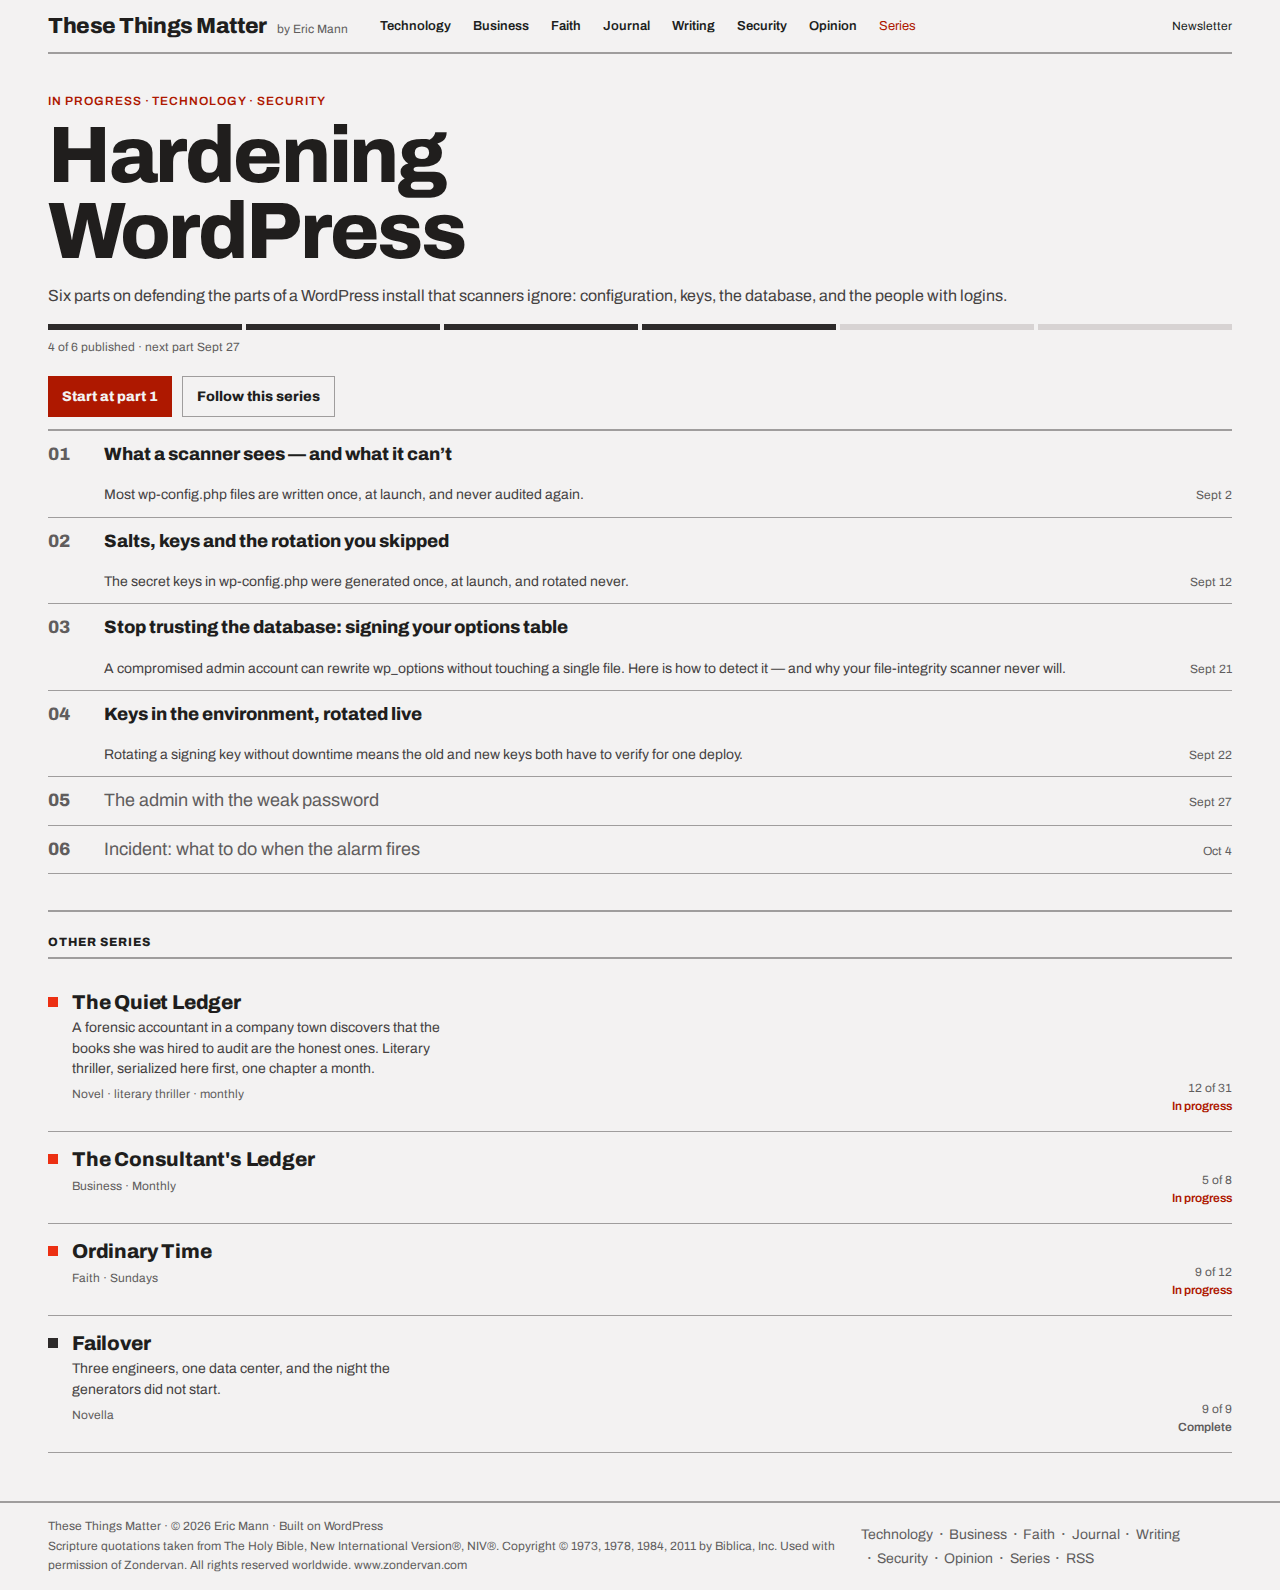
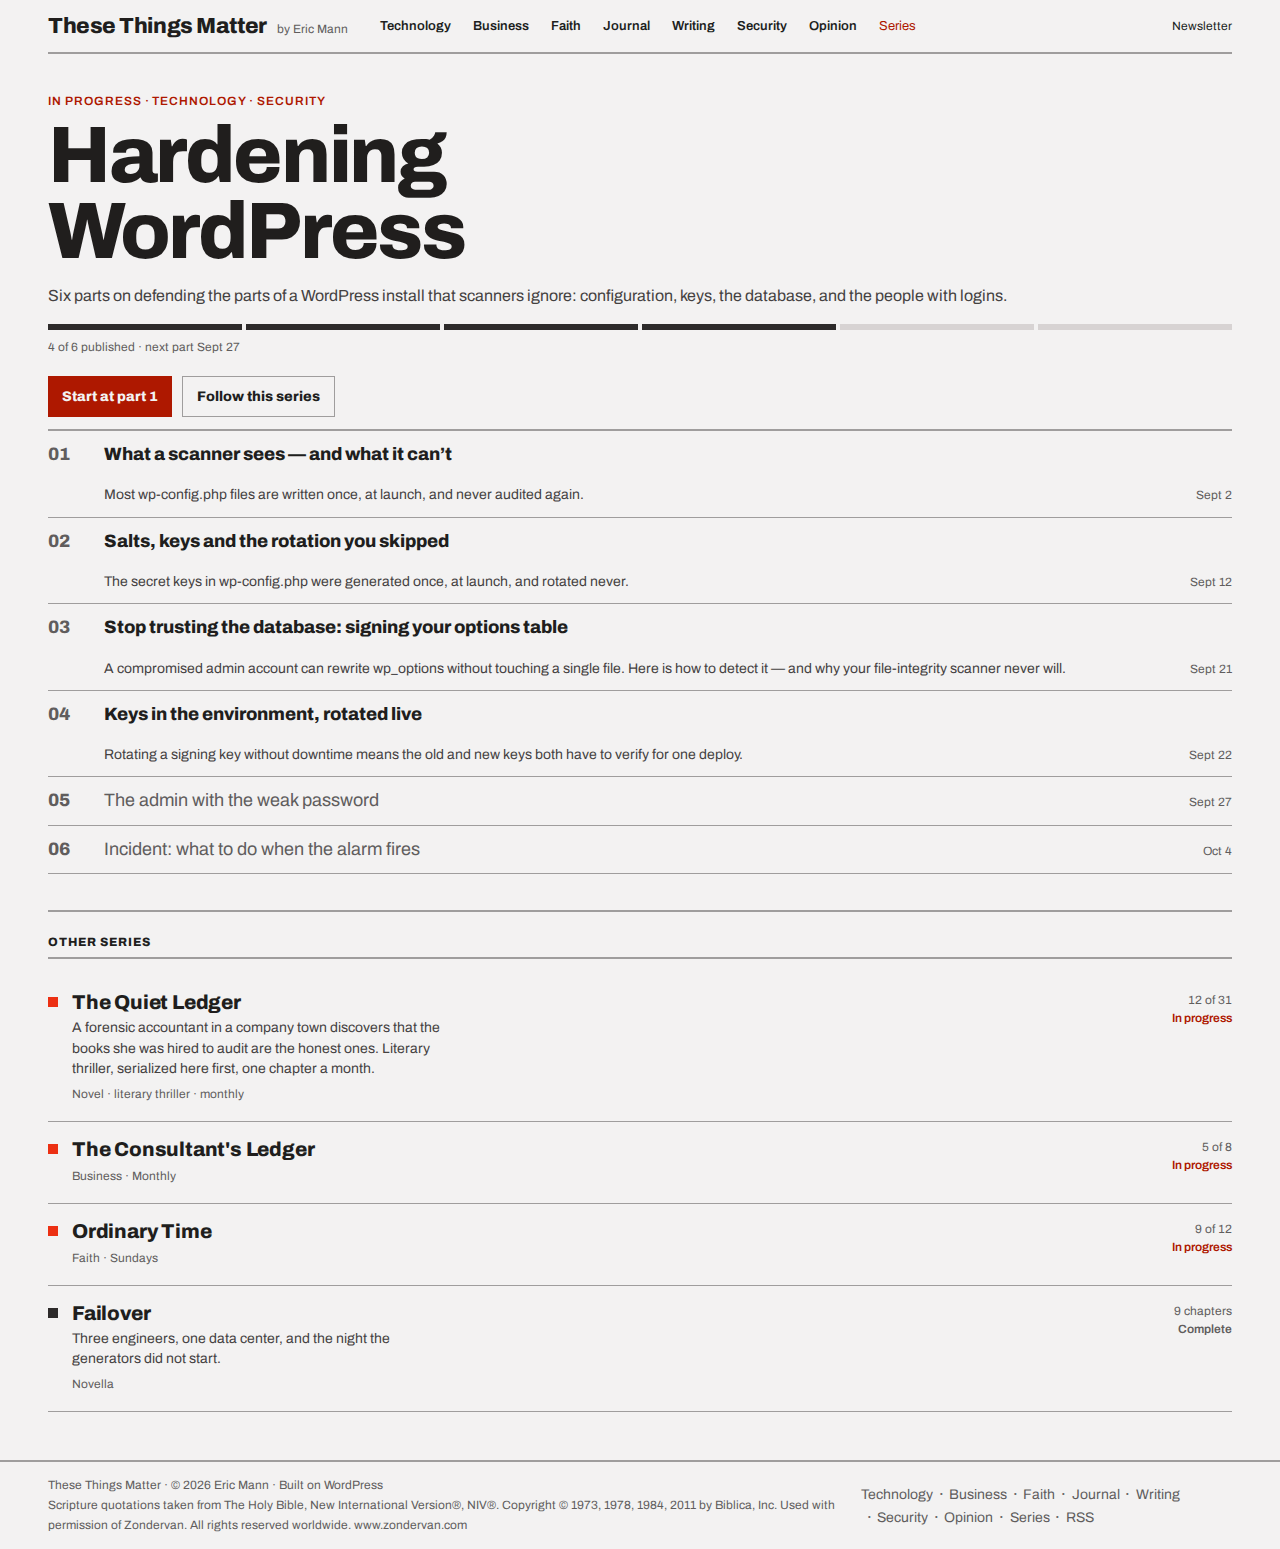
R4-03: Test the empty-chapters branch; round-3 cleanups; regenerate screenshots
Goal: Cover R3-02's return '' branch with a test, clear the round-3
readability leftovers (REVIEW round 3 findings 1 and 5), and regenerate the
phase-3 PNGs after R4-01/R4-02's fixes.

Tests: SeriesTocTest::test_chapters_variant_with_no_published_parts_renders_nothing
(confirmed it fails with the return '' guard temporarily removed, passes
restored). series-toc/render.php's chapters loop no longer checks
$ttm_is_published (chapters rows are always publish after R3-02's filter);
the series/article-TOC variant's separate F24 branch is untouched.
Seeder.php: dropped ALLOWED_FORMS, validates against Meta\PostMeta::FORMS
instead; normalize_form() stays pure and its unit test (composer test:unit,
171 tests) stays green unchanged. Fixed the docblock's stale "SPEC §5.2"
citation. SeederTest.php: removed the stale F2/R1-02 docblock and renamed
test_seeded_writing_essays_derive_as_story_but_stay_older_than_the_last_cron_job
to test_seeded_writing_essays_are_locked_articles_and_last_cron_job_stays_first
(assertions unchanged).

Corrected two HANDOFF.md errors: Field Guide's days_ago is 410, not 260; the
R3-03 Measurements note had misattributed the "flagged as 260" note to
story-what-the-river-audits when it was about story-a-field-guide-to-empty-
offices. Added a Round 4 section.

Reseeded and ran npm run screenshots; only writing.png, writing-390.png,
series-hub.png and series-single.png changed (git status confirmed),
[…]

diff --git a/plugins/ttm-core/blocks/series-toc/render.php b/plugins/ttm-core/blocks/series-toc/render.php
@@ -124,17 +124,15 @@ $ttm_scheduled_label = static function ( array $ttm_part ): string {
 	<ol class="ttm-numbered">
 		<?php foreach ( $ttm_rows as $ttm_part ) : ?>
 			<?php
-			$ttm_is_published = 'publish' === $ttm_part['status'];
-			$ttm_title        = '' !== $ttm_part['title'] ? $ttm_part['title'] : get_the_title( $ttm_part['post_id'] );
+			// $ttm_rows is already filtered to 'publish' status above (chapters is always
+			// in the $ttm_open_ended || $ttm_is_chapters branch), so every row here is
+			// published; no is-published branch is needed (R4-03, finding 1).
+			$ttm_title = '' !== $ttm_part['title'] ? $ttm_part['title'] : get_the_title( $ttm_part['post_id'] );
 			?>
 			<li class="ttm-numbered__row">
 				<span class="ttm-numbered__num tnum"><?php echo esc_html( sprintf( '%02d', (int) $ttm_part['part'] ) ); ?></span>
-				<?php if ( $ttm_is_published ) : ?>
-					<a class="ttm-numbered__title" href="<?php echo esc_url( (string) get_permalink( $ttm_part['post_id'] ) ); ?>"><?php echo esc_html( $ttm_title ); ?></a>
-				<?php else : ?>
-					<span class="ttm-numbered__title"><?php echo esc_html( $ttm_title ); ?></span>
-				<?php endif; ?>
-				<?php if ( $ttm_show_dek && $ttm_is_published ) : ?>
+				<a class="ttm-numbered__title" href="<?php echo esc_url( (string) get_permalink( $ttm_part['post_id'] ) ); ?>"><?php echo esc_html( $ttm_title ); ?></a>
+				<?php if ( $ttm_show_dek ) : ?>
 					<span class="ttm-numbered__dek"><?php echo esc_html( wp_strip_all_tags( get_the_excerpt( $ttm_part['post_id'] ) ) ); ?></span>
 				<?php endif; ?>
 				<span class="ttm-numbered__date"><?php echo esc_html( Helpers::date_short( (string) $ttm_part['date'] ) ); ?></span>

diff --git a/plugins/ttm-core/src/Cli/Seeder.php b/plugins/ttm-core/src/Cli/Seeder.php
@@ -10,6 +10,7 @@ declare( strict_types=1 );
 namespace TTM\Core\Cli;
 
 use TTM\Core\Config;
+use TTM\Core\Meta\PostMeta;
 use TTM\Core\Support\Clock;
 use TTM\Core\Verse\Fetcher;
 
@@ -19,12 +20,6 @@ use TTM\Core\Verse\Fetcher;
 class Seeder {
 
 	private const SEED_META = '_ttm_seed';
-
-	/**
-	 * The `ttm_form` values `Meta\Form::derive()` can produce (SPEC §5.2); a posts.json `form`
-	 * override is only ever one of these.
-	 */
-	private const ALLOWED_FORMS = [ 'article', 'chapter', 'story' ];
 
 	/**
 	 * Seed placeholder colours (rule 45): neutral field, darker diagonal band, lighter inset
@@ -64,11 +59,12 @@ class Seeder {
 	 * Validate a posts.json `form` override (pure; no WordPress calls).
 	 *
 	 * @param mixed $form Raw fixture value.
-	 * @return string|null The value, when it is one of ALLOWED_FORMS; null otherwise (missing
+	 * @return string|null The value, when it is one of `Meta\PostMeta::FORMS` (the `ttm_form`
+	 *                      values `Meta\Form::derive()` can produce); null otherwise (missing
 	 *                      field, wrong type, or a value `Meta\Form::derive()` never produces).
 	 */
 	public static function normalize_form( $form ): ?string {
-		if ( ! is_string( $form ) || ! in_array( $form, self::ALLOWED_FORMS, true ) ) {
+		if ( ! is_string( $form ) || ! in_array( $form, PostMeta::FORMS, true ) ) {
 			return null;
 		}
 

diff --git a/tests/integration/Blocks/SeriesTocTest.php b/tests/integration/Blocks/SeriesTocTest.php
@@ -222,6 +222,34 @@ class SeriesTocTest extends TTM_IntegrationTestCase {
 		$this->assertStringNotContainsString( 'Chapter Four', $html );
 	}
 
+	/**
+	 * R4-03, REVIEW round 3 finding 1: a series whose only parts are scheduled has no
+	 * published rows for the chapters variant to list, so render.php's `return ''`
+	 * guard (F23) must fire rather than emitting an empty `.ttm-series-toc` wrapper.
+	 */
+	public function test_chapters_variant_with_no_published_parts_renders_nothing(): void {
+		$this->set_now( '2026-09-20 12:00:00' );
+		$series = $this->make_series(
+			'hardening-wp',
+			'Hardening WordPress',
+			1,
+			[
+				[
+					'part'   => 1,
+					'status' => 'future',
+					'date'   => '2026-09-26 09:00:00',
+				],
+			]
+		);
+
+		$html = $this->render(
+			$series['post_ids'][1],
+			[ 'variant' => 'chapters' ]
+		);
+
+		$this->assertSame( '', $html );
+	}
+
 	public function test_series_id_attribute_overrides_context(): void {
 		$this->set_now( '2026-09-20 12:00:00' );
 		$series = $this->make_series( 'hardening-wp', 'Hardening WordPress', 2, [ [ 'part' => 1 ], [ 'part' => 2 ] ] );

diff --git a/tests/integration/Cli/SeederTest.php b/tests/integration/Cli/SeederTest.php
@@ -311,18 +311,12 @@ class SeederTest extends TTM_IntegrationTestCase {
 	}
 
 	/**
-	 * F2 (REVIEW.md, R1-02): the two seriesless Writing essays derive `ttm_form=story` like the
-	 * short story does, but their `days_ago` (60, 75) must stay older than
-	 * `story-the-last-cron-job`'s (40) so `Fiction\Serials::stories()` -- ordered newest first --
-	 * ranks the story ahead of them, matching the front page's "Also running" list.
-	 */
-	/**
 	 * R3-03: the two Writing essays are locked to a non-story form (a Seeder fixture field,
 	 * `form` + `ttm_form_locked`), so they no longer auto-classify as `story` and no longer
 	 * take a Fiction\Serials::stories() slot. The front page's single "Also running" story
 	 * stays The Last Cron Job either way.
 	 */
-	public function test_seeded_writing_essays_derive_as_story_but_stay_older_than_the_last_cron_job(): void {
+	public function test_seeded_writing_essays_are_locked_articles_and_last_cron_job_stays_first(): void {
 		( new Seeder() )->run( 'normal' );
 
 		$essay_1 = get_page_by_path( 'finishing-a-draft-you-no-longer-believe-in', OBJECT, 'post' );

diff --git a/docs/HANDOFF.md b/docs/HANDOFF.md
@@ -111,7 +111,7 @@ article (P0-07) carries 82 paragraphs (≈3113 words, 14 min read) to match mock
 Ledger's twelve published chapters (P0-08) each carry 80 paragraphs (`avg_minutes` 12) so
 `Fiction\Serials::stats()` reads a real, mock-plausible reading time rather than a rounding
 artifact. "The Last Cron Job" targets ≈3094 words (88 paragraphs), "A Field Guide to Empty
-Offices" ≈1817 words (52 paragraphs, `days_ago: 260`) — both against `docs/fixtures/seed/prose.json`,
+Offices" ≈1817 words (52 paragraphs, `days_ago: 410`) — both against `docs/fixtures/seed/prose.json`,
 no lorem ipsum anywhere in the fixtures (`grep -ri lorem docs/fixtures/seed/` returns nothing,
 rule 39).
 
@@ -505,11 +505,12 @@ R3-01's additions were absorbed by shortening existing comments. `ttm.css` is 62
 
 - R3-01: `ttm.css` 62795 bytes with the nine new declarations and unshortened comments (331 over
   budget) → 62463 bytes after losslessly shortening nine long comments (1 byte of headroom left).
-- R3-03: `story-what-the-river-audits` `days_ago` was reviewer-flagged in an earlier draft of this
-  document as `260`; the fixture now carries `1090` (landing in 2023, per mock order) — noted here
-  per the task's instruction to record the Field Guide/River `days_ago` values explicitly.
-  `story-a-field-guide-to-empty-offices` keeps its existing `days_ago: 410` (2025) unchanged;
-  `story-uptime` moved from `days_ago: 150` to `700` (2024).
+- R3-03: `story-a-field-guide-to-empty-offices` keeps its existing `days_ago: 410` (2025) unchanged
+  — an earlier draft of this document (§"Seeded word counts", now corrected) had misstated it as
+  `260`; the fixture itself was never wrong. `story-what-the-river-audits` `days_ago` moved from
+  `260` to `1090` (landing in 2023, per mock order); `story-uptime` moved from `days_ago: 150` to
+  `700` (2024) — noted here per the task's instruction to record the Field Guide/River `days_ago`
+  values explicitly.
 
 ### What a human should check by hand
 
@@ -528,3 +529,115 @@ human should:
 The R3-03 task's git-ancestry check (`git merge-base --is-ancestor $(git log -1 --format=%H --
 themes/ttm-theme plugins/ttm-core docs/fixtures/seed) $(git log -1 --format=%H --
 docs/feedback/phase-3)`) exits 0 as of R3-03's commit.
+
+## Round 4 (review-fix)
+
+Branch `refine/2026-09-22`, base `main` (`8c2b228`). All three round-4 review-fix tasks (`R4-01`,
+`R4-02`, `R4-03`) are `[x]`; none blocked or skipped. Task counts: 59 total, 59 done, 0 open.
+
+### What each task fixed
+
+- **R4-01** (`5e8211d`): REVIEW round 3 findings 2 and 3. `.ttm-series-row__count` had no
+  `grid-row`, so grid auto-placement (row algorithm, no backtracking) dropped it into the row's
+  last implicit row instead of beside the title — measured 68–109px below title-top on
+  `/writing/`, `/series/` and `/series/hardening-wordpress/`. Added `grid-row: 1 / span 3` (list,
+  grid-2 and `.ttm-series-single__other`, which shares the same `is-list` selector; strip/rail
+  don't render `__count`, unaffected). Separately, `page-writing.html`'s `main`/`aside` groups
+  used core's `layout: {type: flex, orientation: vertical}` (forces `align-items: flex-start`,
+  shrinking children to content width — measured 466px/535px inside a 653px column); changed both
+  to `layout: {type: default}` and gave `.ttm-writing-body > main`/`> aside` `display: flex;
+  flex-direction: column` directly in `ttm.css` (rule 36: `ttm.css` owns grid-column-child
+  layout, not the block's own `layout` attribute) — the existing `<=1024` `display: contents` fold
+  still wins (later in source, same specificity). `cssBudgetBytes` raised 62464 → 63488
+  (measured 62463 → 62568, +105 bytes) in `scripts/check-budget.mjs` and `CLAUDE.md`; CLAUDE.md's
+  rule-36 constraint line amended to quote SPEC §3.1 on grid-column-child layout. Extended
+  `wr-serial-count`, `hub-grid-row` and `single-other` with a per-row count/title top-alignment
+  check; added `wr-body-cols`; added
+  `HubWritingTemplatesTest::test_writing_body_columns_are_layout_default`. All new assertions
+  confirmed failing pre-fix.
+- **R4-02** (`3252970`): REVIEW round 3 finding 4. A complete series' right cell read "9 of 9" /
+  "24 of 24" once the published count reached the planned total, instead of SPEC §6.5/§6.7's "9
+  chapters" / "4 parts". Added `$ttm_right_cell_word` in `series-list/render.php`: for `list`/
+  `grid-2` layouts only, a complete series' `__parts` span reads `_n('%d chapter', '%d chapters',
+  …)` for fiction forms (novel/novella/story-cycle) or `_n('%d part', '%d parts', …)` for
+  nonfiction; `$ttm_count_word` itself is untouched, so the strip/rail `__meta` line and every
+  other status/layout combination ("N of M", open-ended "N part(s)") are unaffected — verified the
+  front page's `/` HTML is byte-for-byte identical before/after via `git stash` + `curl` diff.
+  `SeriesListTest` gained `test_complete_fiction_series_count_reads_chapters`,
+  `test_complete_nonfiction_series_count_reads_parts`,
+  `test_in_progress_series_still_reads_n_of_m` and
+  `test_strip_meta_count_unchanged_for_complete_series`; extended `wr-serial-count` to check the
+  seeded "Failover" row reads "9 chapters". All new integration assertions confirmed failing
+  pre-fix (wrong wording, not wrong count).
+- **R4-03** (commit below): REVIEW round 3 findings 1 and 5, plus the round's screenshot refresh.
+  Added `SeriesTocTest::test_chapters_variant_with_no_published_parts_renders_nothing` covering
+  R3-02's `return ''` guard for a series whose only part is scheduled (confirmed it fails with the
+  guard temporarily removed, passes restored). Removed the now-unreachable unpublished
+  `<span class="ttm-numbered__title">` branch and its `$ttm_is_published` check from the chapters
+  loop in `series-toc/render.php` (chapters rows are always `'publish'` after R3-02's filter; the
+  series/article-TOC variant's F24 scheduled-row treatment is a separate `else` branch, untouched).
+  In `Seeder.php`, dropped the private `ALLOWED_FORMS` const and validated `normalize_form()`
+  against `Meta\PostMeta::FORMS` instead (same three values; `normalize_form()` stays pure —
+  `PostMeta::FORMS` is a plain class constant, no WordPress calls to load it — its unit test stays
+  green unchanged) and fixed its docblock's stale "SPEC §5.2" citation (phase 3's SPEC has no §5.2;
+  reworded to cite `Meta\PostMeta::FORMS`/`Meta\Form::derive()` instead). In `SeederTest.php`,
+  deleted the stale F2/R1-02 docblock stacked above the R3-03 one and renamed
+  `test_seeded_writing_essays_derive_as_story_but_stay_older_than_the_last_cron_job` to
+  `test_seeded_writing_essays_are_locked_articles_and_last_cron_job_stays_first` (assertions
+  unchanged). Corrected two HANDOFF errors: "A Field Guide to Empty Offices" `days_ago` is `410`,
+  not `260` (the word-count paragraph had transposed River's old value); reworded the R3-03
+  Measurements note, which had credited the "flagged as 260" misstatement to
+  `story-what-the-river-audits` when it was actually about `story-a-field-guide-to-empty-offices`
+  (River's `days_ago` genuinely moved 260 → 1090; that part was always correct). Reseeded
+  (`npm run env:cli -- ttm seed --reset`) and ran `npm run screenshots`; only the four PNGs the
+  round's fixes could plausibly change were different (`writing.png`, `writing-390.png`,
+  `series-hub.png`, `series-single.png` — confirmed by `git status`), matching R4-01/R4-02's scope
+  exactly. Visually confirmed by eye: the count/status cell sits level with the title on all three
+  screens, the Writing lists fill their columns, and Failover/Salt Water Wires read "9 chapters"/
+  "24 chapters" — no new visual issues spotted.
+
+### Interpretation choices this round
+
+- **R4-01**: `grid-row: 1 / span 3` (not `grid-row: 1` alone) so the item's placement covers the
+  title/dek/meta rows it can appear beside across list, grid-2 and single-other's varying row
+  counts, while `align-items: start` (already set per layout) keeps the item's own height at its
+  content size rather than stretching it.
+- **R4-02**: scoped the new wording to `list`/`grid-2` only (not `grid-3`, which the task's Files-
+  touched/Out-of-scope lines didn't mention) even though the pre-fix code rendered `__count` there
+  too via the same shared branch; `grid-3` isn't seeded or exercised by any fidelity row this
+  flight, so left its behaviour as `$ttm_count_word` (unchanged "N of N").
+- **R4-03**: none of the task's five sub-fixes required a judgment call beyond what the task
+  specified; the `Seeder.php` docblock rewording is a paraphrase, not a new interpretation of what
+  `normalize_form()` validates.
+
+### Config keys touched this round
+
+None new. `cssBudgetBytes` (⚠ ASSUMPTION, `scripts/check-budget.mjs`) raised 62464 → 63488 in
+R4-01 to restore the series-row `grid-row` and Writing-body flex-column fixes; `ttm.css` is
+62568/63488 bytes (920 bytes of headroom) as of R4-01's commit and unchanged since (R4-02/R4-03
+touched no CSS).
+
+### Measurements
+
+- R4-01: `ttm.css` 62463 → 62568 bytes (+105) for the `grid-row` declaration and the two `display:
+  flex; flex-direction: column` rules. `cssBudgetBytes` raised 62464 → 63488 (next 1024 multiple)
+  for headroom.
+
+### What a human should check by hand
+
+`foundry_verify` was green at the end of every task this round (unit 171, integration 490/490, e2e
+452/452, composer lint, npm lint including budget/coverage/fixme, forbidden-patterns). Still, a
+human should:
+
+1. Open `/writing/`, `/series/` and `/series/hardening-wordpress/` at 1280 and confirm by eye that
+   the count/status column sits level with the series title (this was the round's main visual
+   fix) — the regenerated `writing.png`, `series-hub.png` and `series-single.png` should already
+   show this, but a live check catches anything the fixed screen set didn't cover.
+2. Open `/writing/` at 1280, 1000 and 390 and confirm the "All serials" list and "Recent chapters"
+   list each fill their column width (not shrunk to content) at 1280, and that the stacked order
+   is unchanged at 1000/390.
+3. `git stash list` — still unresolved from earlier rounds, still unrelated to this flight.
+
+The R4-03 task's git-ancestry check (`git merge-base --is-ancestor $(git log -1 --format=%H --
+themes/ttm-theme plugins/ttm-core docs/fixtures/seed) $(git log -1 --format=%H --
+docs/feedback/phase-3)`) exits 0 as of R4-03's commit.
